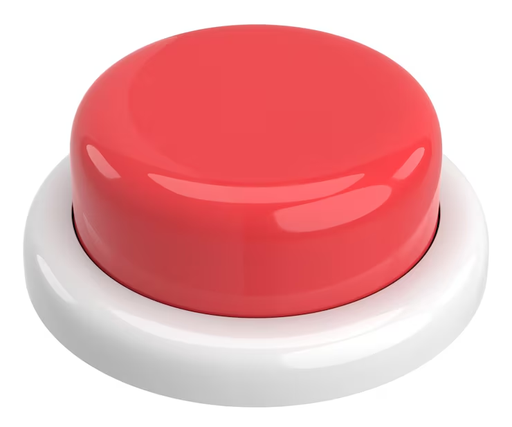
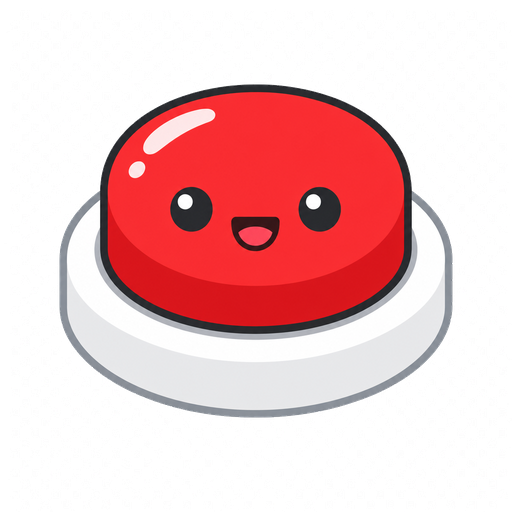
단어 그림을 플랫 일러스트로 교체, 도구 아이콘 정리
수건·이불·버튼을 배경 투명한 일러스트로 새로 만들고, 따라쓰기 안내 문구를 없앴으며 펜·지우개 아이콘은 유지하고 전체 지우기는 텍스트만 남겼다.

diff --git a/index.html b/index.html
@@ -69,7 +69,6 @@
       </div>
       <div class="trace-right">
         <div class="trace-head">
-          <span class="trace-sub">단어를 읽으며 따라 써보세요 ✏️</span>
           <div class="trace-tools">
             <div class="brush-select" id="brushSelect" role="group" aria-label="펜 굵기">
               <button type="button" class="brush-btn" data-brush="0.012" aria-label="가장 가는 펜"><span class="brush-dot s"></span></button>
@@ -77,8 +76,8 @@
               <button type="button" class="brush-btn active" data-brush="0.03" aria-label="보통 펜"><span class="brush-dot l"></span></button>
             </div>
             <div class="tool-select" id="toolSelect" role="group" aria-label="도구 선택">
-              <button type="button" class="tool-btn active" data-tool="pen">펜</button>
-              <button type="button" class="tool-btn" data-tool="eraser">지우개</button>
+              <button type="button" class="tool-btn active" data-tool="pen">✏️ 펜</button>
+              <button type="button" class="tool-btn" data-tool="eraser">🧽 지우개</button>
             </div>
             <button type="button" class="trace-clear" id="traceClear">전체 지우기</button>
           </div>

diff --git a/styles.css b/styles.css
@@ -36,8 +36,6 @@ img.emoji {
   display: inline-block;
   -webkit-user-drag: none;
   pointer-events: none;
-  /* 흰 배경 사진(이불 등)이 흰 카드에서 묻히지 않도록 은은한 그림자 */
-  filter: drop-shadow(0 2px 3px rgba(0, 0, 0, 0.18));
 }
 
 html, body {